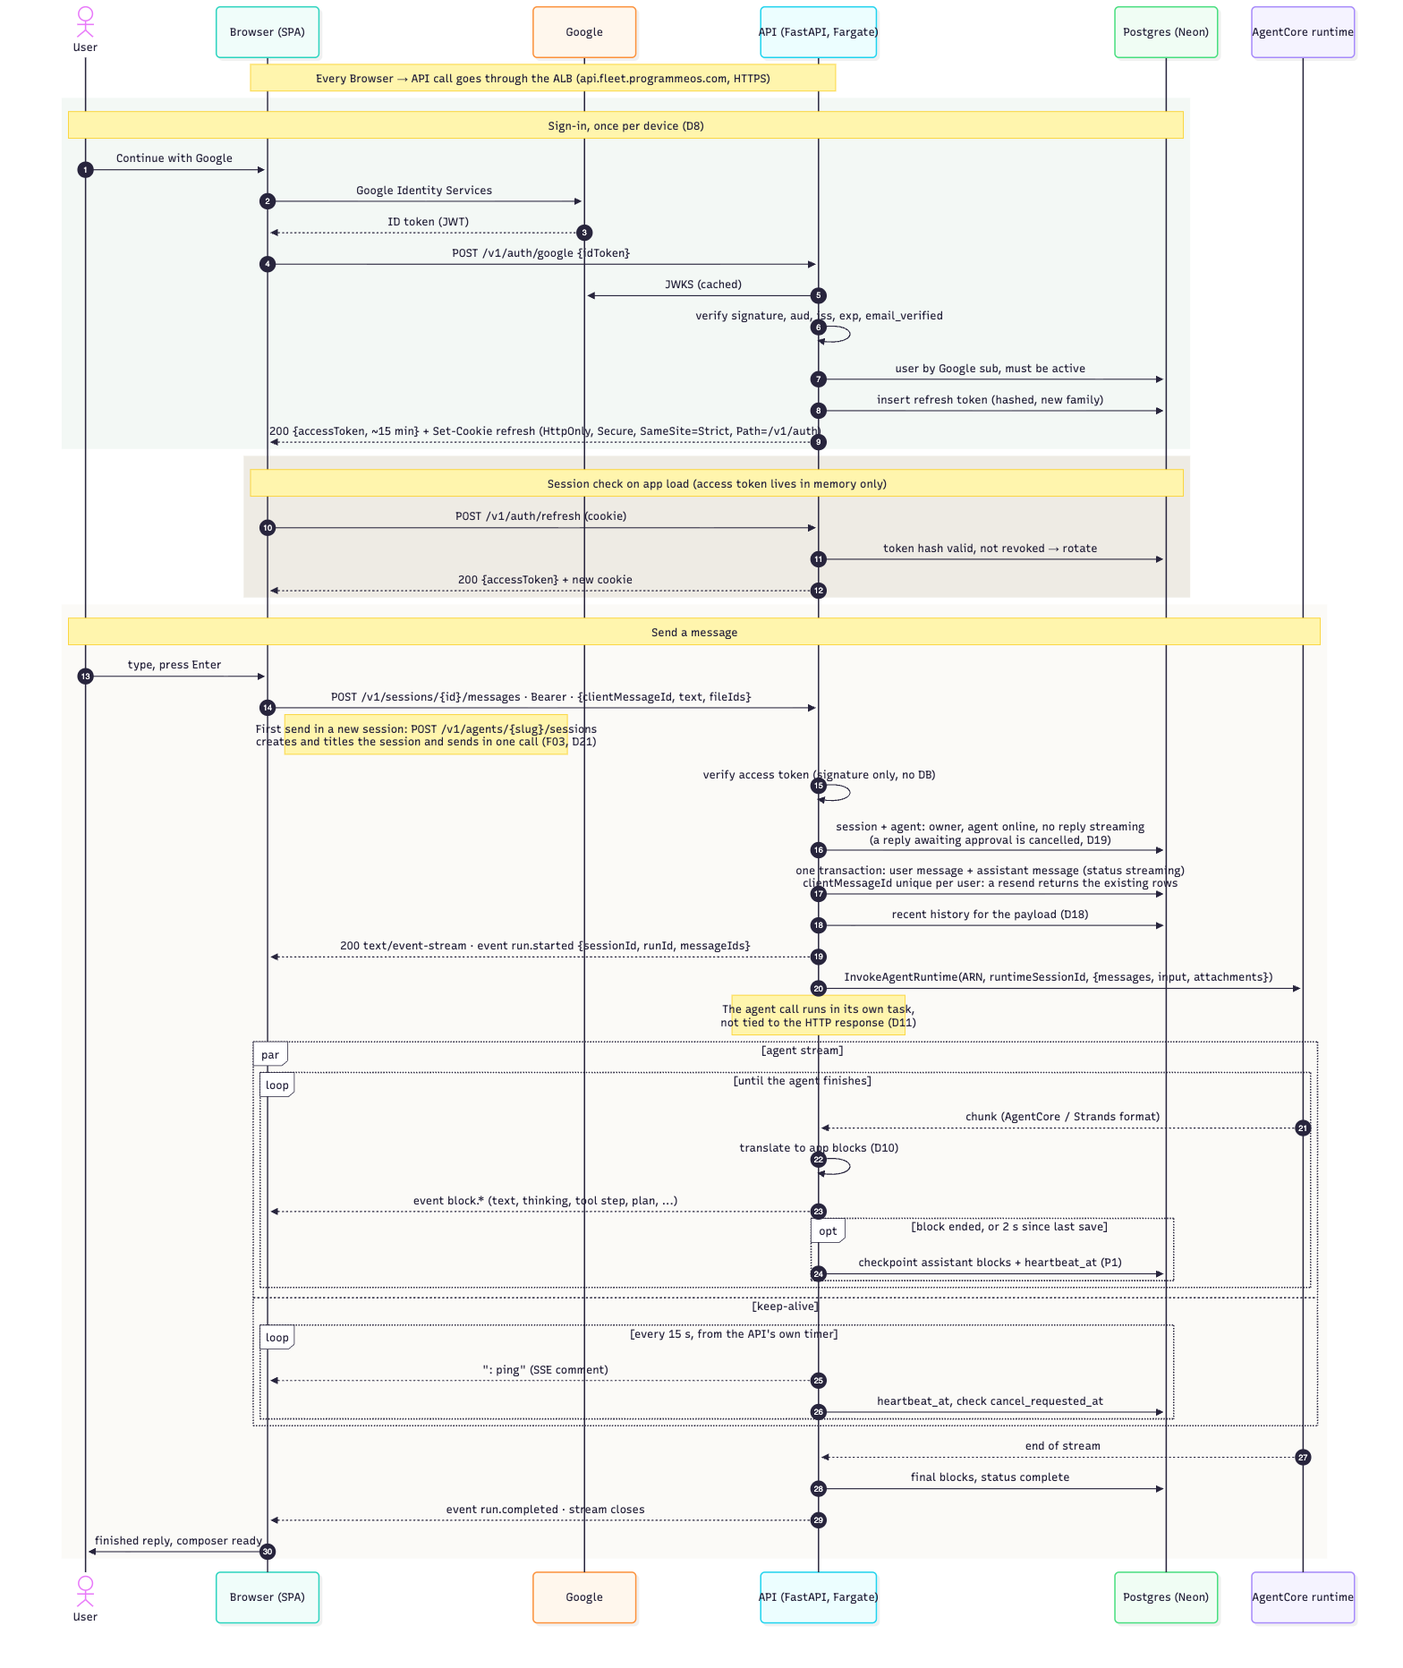
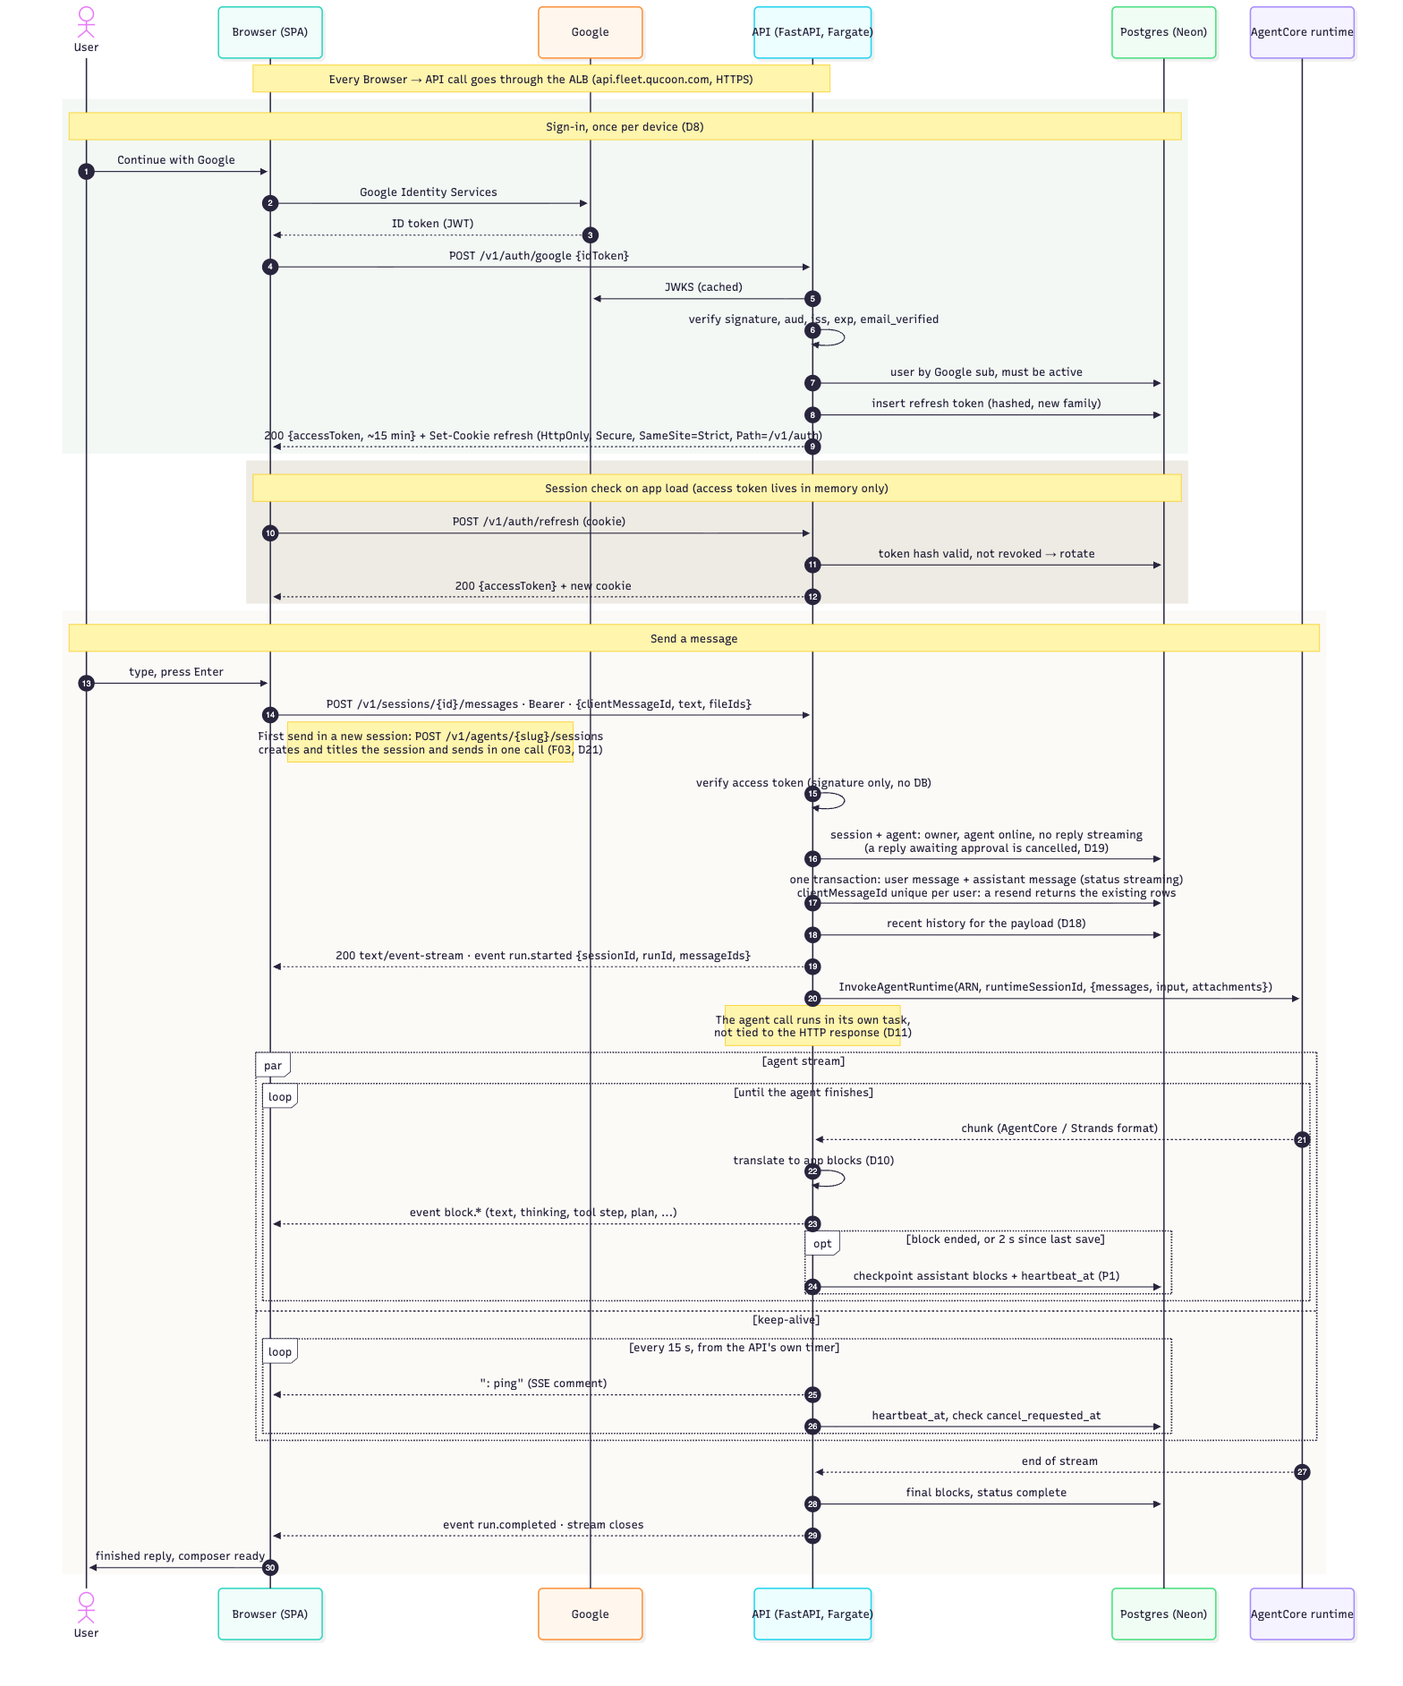
Move to fleet.qucoon.com; add naming convention and required tags
D25: the app is fleet.qucoon.com and the API api.fleet.qucoon.com.
qucoon.com is on Route 53 in another AWS account, so its manager adds
the NS delegation for fleet; no CAA records, fleet unused.

D26: resources are named <project>-<environment>-<component>-<type>-<region>
(fleet-dev-api-alb-us-east-1, all within AWS limits) and carry Owner,
Project, Environment, aws-apn-id and ManagedBy tags via default_tags
and ECS tag propagation. Owner and aws-apn-id are required variables
set in gitignored terraform.tfvars, so their values stay out of this
public repo.

Domain updated in docs, diagrams, the OpenAPI spec and Terraform.

diff --git a/docs/ARCHITECTURE.md b/docs/ARCHITECTURE.md
@@ -2,7 +2,7 @@
 
 | | |
 |---|---|
-| Status | v0.4, D1–D25 and P1–P8 locked; §4 questions still open |
+| Status | v0.4, D1–D26 and P1–P8 locked; §4 questions still open |
 | Date | 2026-09-29 |
 | Owner | Israel B. (approver) |
 | Scope | Back end, infrastructure, auth, data and the agent stream. Product scope stays in `PRODUCT_PLAN.md`. |
@@ -69,7 +69,7 @@ Each entry: the decision, why, and what would make us revisit it.
 ### D8. Auth: Google sign-in, then the API's own session
 **Decision.** The browser gets a Google ID token (Google Identity Services) and posts it once to `POST /v1/auth/google`. The API verifies signature (Google JWKS), `aud` (our client ID), `iss`, `exp` and `email_verified`, looks the user up by Google `sub`, and rejects unknown or inactive users. It then issues:
 - a short-lived **access token** (JWT, ~15 min, signed with the session key from Secrets Manager), held in memory by the client and sent as `Authorization: Bearer`;
-- a rotating **refresh token** (random, stored hashed in `refresh_tokens`) in a cookie: `HttpOnly; Secure; SameSite=Strict; Path=/v1/auth`, host-only (no `Domain` attribute), so it goes only to `api.fleet.programmeos.com` (D25) (all routes live under `/v1`, D23).
+- a rotating **refresh token** (random, stored hashed in `refresh_tokens`) in a cookie: `HttpOnly; Secure; SameSite=Strict; Path=/v1/auth`, host-only (no `Domain` attribute), so it goes only to `api.fleet.qucoon.com` (D25) (all routes live under `/v1`, D23).
 Refresh rotates the token and detects reuse (reuse of an old token revokes the whole family). App (`app.`) and API (`api.`) share a parent domain, so the cookie is same-site; CORS allows only the app origin with credentials, and `/v1/auth/*` also checks `Origin`.
 **Why.** No Cognito to operate; Google does the hard part; our own session gives revocation and short token lifetime.
 **Revisit if.** We need non-Google sign-in, SSO, or passkey step-up (P2).
@@ -99,7 +99,7 @@ Refresh rotates the token and detects reuse (reuse of an old token revokes the w
 Compute, S3, AgentCore, Secrets Manager, Amplify and Neon all in us-east-1. **Revisit if** a model or AgentCore feature we need isn't there.
 
 ### D13. Front-end hosting: AWS Amplify Hosting
-**Decision.** Amplify Hosting serves the web app on `fleet.programmeos.com`, same parent domain as the API (D25).
+**Decision.** Amplify Hosting serves the web app on `fleet.qucoon.com`, same parent domain as the API (D25).
 **Why.** Managed builds, previews per branch, TLS, custom domain.
 **Revisit if.** We choose a server-rendered framework Amplify handles poorly (not expected: the front end is a static SPA, D16), or cost/control push us to S3 + CloudFront.
 
@@ -158,15 +158,24 @@ Compute, S3, AgentCore, Secrets Manager, Amplify and Neon all in us-east-1. **Re
 **Why.** The simplest layout that keeps "adding an agent touches only `agents/`" checkable in a pull request, and keeps each part deployable on its own.
 **Revisit if.** A second TypeScript package appears (then npm workspaces), or the contract gains another consumer (then move it to a top-level `contract/`).
 
-### D25. Domain: `fleet.programmeos.com`, delegated to Route 53
-**Decision (owner, 2026-09-29, Q2).** The owner's domain `programmeos.com` stays registered and hosted at GoDaddy. Only the subdomain `fleet.programmeos.com` is delegated to a Route 53 hosted zone (Terraform), by four `NS` records named `fleet` that the owner adds in GoDaddy DNS.
-- Web app (Amplify): `https://fleet.programmeos.com`; share links `https://fleet.programmeos.com/s/<slug>`.
-- API (ALB): `https://api.fleet.programmeos.com`.
+### D25. Domain: `fleet.qucoon.com`, delegated to its own Route 53 zone
+**Decision (owner, 2026-09-29, Q2; changed the same day from `fleet.qucoon.com`).** `qucoon.com` is hosted in Route 53 in **another AWS account**. Only `fleet.qucoon.com` is delegated to a Route 53 zone in the Agent Hub account (created by `infra/bootstrap`): whoever manages `qucoon.com` adds four `NS` records named `fleet` with the values Terraform prints.
+- Web app (Amplify): `https://fleet.qucoon.com`; share links `https://fleet.qucoon.com/s/<slug>`.
+- API (ALB): `https://api.fleet.qucoon.com`.
 - Certificates: ACM in us-east-1, validated through DNS records in the delegated zone. Amplify manages its own certificate for the app.
-- Google OAuth authorised JavaScript origin: `https://fleet.programmeos.com`; CORS allows only that origin.
-- Checked 2026-09-29: DNS is at GoDaddy (`ns61/62.domaincontrol.com`), no CAA records (nothing blocks Amazon certificates), and `fleet` isn't in use.
-**Why.** Owning the domain gives the ALB a certificate and puts app and API on one site, which the `SameSite=Strict` refresh cookie needs (D8). Delegating one subdomain leaves the rest of the domain untouched and costs only the hosted zone ($0.50/month).
-**Revisit if.** The app moves to its own domain: change one Terraform variable, the Google OAuth origin and the CORS origin.
+- Google OAuth authorised JavaScript origin: `https://fleet.qucoon.com`; CORS allows only that origin.
+- Checked 2026-09-29: `qucoon.com` is on Route 53 (`awsdns` name servers), has no CAA records (nothing blocks Amazon certificates), and `fleet` isn't in use.
+**Why.** Owning the domain gives the ALB a certificate and puts app and API on one site, which the `SameSite=Strict` refresh cookie needs (D8). A delegated zone keeps Agent Hub's records in its own account and leaves the rest of `qucoon.com` untouched; $0.50/month.
+**Revisit if.** The app moves to another domain: change one Terraform variable, the Google OAuth origin and the CORS origin.
+
+### D26. Resource names and required tags
+**Decision (owner, 2026-09-29, internal convention).**
+- **Names:** `<project>-<environment>-<component>-<type>-<region>`, with project `fleet` and environment `dev`, e.g. `fleet-dev-main-vpc-us-east-1`, `fleet-dev-api-alb-us-east-1`, `fleet-dev-files-s3-us-east-1`. Built in one place per module from `project`, `environment` and `region`. All names fit AWS limits (ALB and target group ≤ 32 characters).
+- **Tags on every resource** (provider `default_tags`, plus `propagate_tags` so ECS tasks carry them): `Owner`, `Project` (`fleet`), `Environment` (`dev`), `aws-apn-id`, and `ManagedBy = terraform`.
+- **`Owner` and `aws-apn-id` values stay out of git** (the repository is public): they are required Terraform variables with no default, set in the gitignored `terraform.tfvars` of each root. Terraform refuses to plan without them.
+- The Terraform state bucket is per environment (`fleet-dev-tfstate-s3-us-east-1`), which follows the convention; D14's "one state per environment" is unchanged.
+**Why.** Company convention for cost reporting, ownership and partner attribution. The product is still called Agent Hub; `fleet` is the project name in AWS.
+**Revisit if.** The convention changes: names and tags are defined once in each root.
 
 ---
 
@@ -198,7 +207,7 @@ These refine D1–D15 and are binding for the steps that follow.
 
 ## 4. Open questions (answers pending)
 
-Answered 2026-09-29: Q9 → Research Analyst v0 (`DELIVERY_PLAN.md` §2), Q2 → D25 (`fleet.programmeos.com`), Q3 → §2 (public subnets, no NAT), Q1 → D16 (Vite SPA), Q4 → D17 (dev only), Q5 → D11 (let the agent finish), Q6 → D18 (API sends history; AgentCore Memory later), Q7 → §3 (P1–P8 accepted). Still open:
+Answered 2026-09-29: Q9 → Research Analyst v0 (`DELIVERY_PLAN.md` §2), Q2 → D25 (`fleet.qucoon.com`), Q3 → §2 (public subnets, no NAT), Q1 → D16 (Vite SPA), Q4 → D17 (dev only), Q5 → D11 (let the agent finish), Q6 → D18 (API sends history; AgentCore Memory later), Q7 → §3 (P1–P8 accepted). Still open:
 
 | # | Question | Blocks | My default |
 |---|---|---|---|
@@ -208,7 +217,7 @@ Answered 2026-09-29: Q9 → Research Analyst v0 (`DELIVERY_PLAN.md` §2), Q2 →
 
 ## 5. Open items (known, not yet decided)
 
-- The four `NS` records for `fleet` in GoDaddy DNS, added by the owner once Terraform creates the hosted zone (D25).
+- The four `NS` records for `fleet` in the `qucoon.com` zone (another AWS account), added by whoever manages it once Terraform creates the delegated zone (D25).
 - Google OAuth client: created by hand in Google Cloud console. Needs the app origin as an authorised JavaScript origin.
 - Terraform state bucket: bootstrapped first, by a separate minimal config.
 - Neon: created by hand; its pooled and direct connection strings go into Secrets Manager.
@@ -245,3 +254,4 @@ Answered 2026-09-29: Q9 → Research Analyst v0 (`DELIVERY_PLAN.md` §2), Q2 →
 | 2026-09-29 | Q2 answered: D25, `fleet.programmeos.com` (app) and `api.fleet.programmeos.com` (API), subdomain delegated from GoDaddy to Route 53; refresh cookie made host-only. |
 | 2026-09-29 | Step 7: Terraform written (`infra/`); D2 Express Mode re-check recorded. Budget alarm at $50 (Q8 default) when an alert email is set. |
 | 2026-09-29 | D2: cheaper alternatives to the ALB weighed; ALB kept behind `enable_api` (off until step 8). |
+| 2026-09-29 | Domain changed to `fleet.qucoon.com` (D25; `qucoon.com` is on Route 53 in another account). D26: naming convention and required tags; `Owner` and `aws-apn-id` values kept out of git. |

diff --git a/infra/README.md b/infra/README.md
@@ -1,16 +1,18 @@
 # Infrastructure (Terraform)
 
-AWS us-east-1, one environment (`dev`) until v1 (D17). Decisions: `docs/ARCHITECTURE.md` D2, D3, D5, D7, D13–D15, D25, §2 and P2.
+AWS us-east-1, one environment (`dev`) until v1 (D17). Decisions: `docs/ARCHITECTURE.md` D2, D3, D5, D7, D13–D15, D25, D26, §2 and P2.
+
+Names follow `fleet-<environment>-<component>-<type>-<region>` (e.g. `fleet-dev-api-alb-us-east-1`); every resource carries the tags `Owner`, `Project`, `Environment`, `aws-apn-id` and `ManagedBy` (D26).
 
 ```
-bootstrap/        Created once: Terraform state bucket + Route 53 zone for fleet.programmeos.com. Local state.
+bootstrap/        Created once: Terraform state bucket + Route 53 zone for fleet.qucoon.com. Local state.
 envs/dev/         The dev environment. State in the bootstrap bucket (native S3 locking).
 modules/
   network/        VPC, 2 public subnets, internet gateway. No NAT gateway.
   ecr/            API image repository (immutable tags, scan on push, keep 15).
   storage/        Private files bucket (uploads, artifacts, exports), CORS for the app origin.
   secrets/        Secrets Manager containers; values are set by hand, never through Terraform.
-  alb/            Public ALB: HTTPS (ACM), HTTP→HTTPS, idle timeout 300 s, drain 300 s, api.fleet.programmeos.com.
+  alb/            Public ALB: HTTPS (ACM), HTTP→HTTPS, idle timeout 300 s, drain 300 s, api.fleet.qucoon.com.
   service/        ECS cluster, task definition (ARM64, stopTimeout 120 s), service, logs, IAM, task security group.
   amplify/        Amplify app for web/ (branch, GitHub and custom domain come in step 8).
 ```
@@ -20,6 +22,7 @@ modules/
 Nothing here is applied without the owner's go-ahead on the plan output.
 
 1. **Pick the AWS profile** for every command below: `export AWS_PROFILE=<profile>` and check it with `aws sts get-caller-identity`.
+   Then copy `bootstrap/terraform.tfvars.example` and `envs/dev/terraform.tfvars.example` to `terraform.tfvars` in the same folders and fill in the required tags (`owner`, `aws_apn_id`; D26). Those files are gitignored: the repo is public.
 2. **Bootstrap:**
    ```bash
    make infra-plan-bootstrap
@@ -28,7 +31,7 @@ Nothing here is applied without the owner's go-ahead on the plan output.
    terraform -chdir=infra/bootstrap apply
    ```
    It prints `name_servers`.
-3. **Delegate `fleet` (owner, in GoDaddy):** DNS for `programmeos.com` → add four records of type `NS`, name `fleet`, one per name server, TTL 1 hour. Check with `dig +short NS fleet.programmeos.com` (a few minutes to an hour). Needed before `enable_api = true` (the API certificate is validated through this zone); it can be done any time before step 8.
+3. **Delegate `fleet` (whoever manages `qucoon.com`, in its Route 53 zone in the other AWS account):** add one record of type `NS`, name `fleet`, with the four `name_servers` values, TTL 3600. Check with `dig +short NS fleet.qucoon.com`. Needed before `enable_api = true` (the API certificate is validated through this zone); it can be done any time before step 8.
 4. **Dev environment:** copy `envs/dev/terraform.tfvars.example` to `envs/dev/terraform.tfvars` and fill it in, then:
    ```bash
    make infra-init
@@ -42,7 +45,7 @@ Nothing here is applied without the owner's go-ahead on the plan output.
    With `enable_api = false` (the default) this creates the network, ECR, the files bucket, the secrets and the Amplify app; no load balancer and no ECS service.
 5. **Secret values** (by hand, never in Terraform or git): for each name in the `secret_names` output,
    ```bash
-   aws secretsmanager put-secret-value --secret-id agent-hub/dev/session-signing-key --secret-string "$(openssl rand -base64 48)"
+   aws secretsmanager put-secret-value --secret-id fleet-dev-session-key-secret-us-east-1 --secret-string "$(openssl rand -base64 48)"
    ```
    The two Neon connection strings are set once the Neon project exists (step 8).
 
@@ -52,7 +55,7 @@ Two switches, so nothing is billed before it's needed:
 
 | Variable | Default | Effect |
 |---|---|---|
-| `enable_api` | `false` | Creates the ALB, its certificate and `api.fleet.programmeos.com`, the ECS cluster, task definition, service and their IAM roles. Needs step 3 done (the certificate validates through the delegated zone). |
+| `enable_api` | `false` | Creates the ALB, its certificate and `api.fleet.qucoon.com`, the ECS cluster, task definition, service and their IAM roles. Needs step 3 done (the certificate validates through the delegated zone). |
 | `api_desired_count` | `0` | Number of API tasks. Set to `1` once an image is in ECR (P7: one task, no autoscaling). |
 
 ## Monthly cost, dev (us-east-1, 730 h, checked 2026-09-29)

diff --git a/docs/DELIVERY_PLAN.md b/docs/DELIVERY_PLAN.md
@@ -13,7 +13,7 @@ This is the product manager's plan: what gets built in which order, how we know 
 
 ## 1. Backend or frontend first? Neither: a thin slice through both
 
-**Recommendation:** build one **walking skeleton** first: the thinnest path from the browser, through the API and AgentCore, back to the browser, deployed on `fleet.programmeos.com`. After that, build every feature as a **vertical slice**: contract change, API, UI and test together, shipped in one pull request.
+**Recommendation:** build one **walking skeleton** first: the thinnest path from the browser, through the API and AgentCore, back to the browser, deployed on `fleet.qucoon.com`. After that, build every feature as a **vertical slice**: contract change, API, UI and test together, shipped in one pull request.
 
 **Why not backend first?** The API would be built blind to how the UI uses it, and nothing is demoable for weeks.
 
@@ -54,7 +54,7 @@ Health Assistant, Coding Agent and Travel Planner (LangGraph) stay after v1 (PRO
 
 ## 3. Milestones
 
-Each milestone ends with something you use on `fleet.programmeos.com`, and passes only if every exit criterion passes.
+Each milestone ends with something you use on `fleet.qucoon.com`, and passes only if every exit criterion passes.
 
 ### M0: Decide and design (done 29 Sep)
 Build steps 1–7 (Terraform written, not applied): decisions, diagrams, schema, contract, repo layout.
@@ -63,13 +63,13 @@ Build steps 1–7 (Terraform written, not applied): decisions, diagrams, schema,
 
 | Slice | Contents |
 |---|---|
-| Infra up | Profile chosen; bootstrap applied; `fleet` NS records in GoDaddy; dev applied with `enable_api = true`; Neon project; Google OAuth client; secrets set |
+| Infra up | Profile chosen; bootstrap applied; `fleet` NS records added in the qucoon.com zone (other account); dev applied with `enable_api = true`; Neon project; Google OAuth client; secrets set |
 | Agent | Research Analyst v0 deployed on AgentCore; **its raw stream recorded and committed** |
 | API | FastAPI app with `/v1/health`, Google sign-in/refresh/logout/`me`, `GET /agents`, create session + send + stream (text, thinking, tool), list messages, stop; heartbeat and cancel flag; the registry CLI and `agents/research-analyst.yaml` |
 | Web | Vite app with the design tokens; the typed client from `openapi.yaml`; sign-in, catalog, new session, streaming chat with thinking and tool chips, Stop |
 | Delivery | API image to ECR, service at 1 task, Amplify branch and custom domain; a manual deploy script is fine |
 
-**Exit:** you sign in and chat with Research Analyst on `fleet.programmeos.com` from laptop and phone; a 3-minute reply streams through the ALB without dropping; reload shows the full history; Stop works; `/v1/health` is green behind the ALB.
+**Exit:** you sign in and chat with Research Analyst on `fleet.qucoon.com` from laptop and phone; a 3-minute reply streams through the ALB without dropping; reload shows the full history; Stop works; `/v1/health` is green behind the ALB.
 
 ### M2: Chat core, Mon 19 Oct – Fri 6 Nov (≈ 60 h)
 
@@ -124,7 +124,7 @@ The schedule has no slack (≈ 230 h in ≈ 11.5 weeks). If a milestone slips by
 **Definition of Done (every slice):**
 - [ ] Contract changes first: `openapi.yaml` updated and linted, if the slice changes the API
 - [ ] API and UI built, with tests (API unit/integration; web component or Playwright where it renders a flow)
-- [ ] Works on `fleet.programmeos.com`, not only locally
+- [ ] Works on `fleet.qucoon.com`, not only locally
 - [ ] Docs changed where a decision or flow changed (ARCHITECTURE change log)
 - [ ] The issue's acceptance criteria checked off
 

diff --git a/docs/PRODUCT_PLAN.md b/docs/PRODUCT_PLAN.md
@@ -410,4 +410,4 @@ The design shows Research Analyst as "LangGraph · Lambda". I recommend Strands 
 | 7 | **Data retention:** keep sessions forever? Hard-delete after the undo window, or soft-delete for 30 days? | Data model, delete semantics, export | Hard delete after 10 s undo. Attachments deleted with their session. |
 | 8 | **Visual direction:** keep the warm editorial look, or did "Apple-style" mean a different visual language? | Token cleanup in M0 | Keep the current direction. |
 | 9 | **Is the pen.dev share link newer than the repo copy?** | Critique accuracy, design fix pass | The repo copy is the latest. |
-| 10 | **Name and domain:** is "Agent Hub" final? Custom domain for share links? **Domain answered 2026-09-29: `fleet.programmeos.com` (ARCHITECTURE D25).** | Share link URLs (P1), portfolio branding | "Agent Hub" on a subdomain of your portfolio domain. |
+| 10 | **Name and domain:** is "Agent Hub" final? Custom domain for share links? **Domain answered 2026-09-29: `fleet.qucoon.com` (ARCHITECTURE D25).** | Share link URLs (P1), portfolio branding | "Agent Hub" on a subdomain of your portfolio domain. |

diff --git a/.github/ISSUE_TEMPLATE/slice.md b/.github/ISSUE_TEMPLATE/slice.md
@@ -12,7 +12,7 @@ labels: P0
 ### Definition of Done
 - [ ] Contract first: `api/openapi.yaml` updated and linted, if the API changes
 - [ ] API and UI built, with tests
-- [ ] Works on `fleet.programmeos.com`, not only locally
+- [ ] Works on `fleet.qucoon.com`, not only locally
 - [ ] Docs changed where a decision or flow changed
 - [ ] Acceptance criteria above checked off
 
